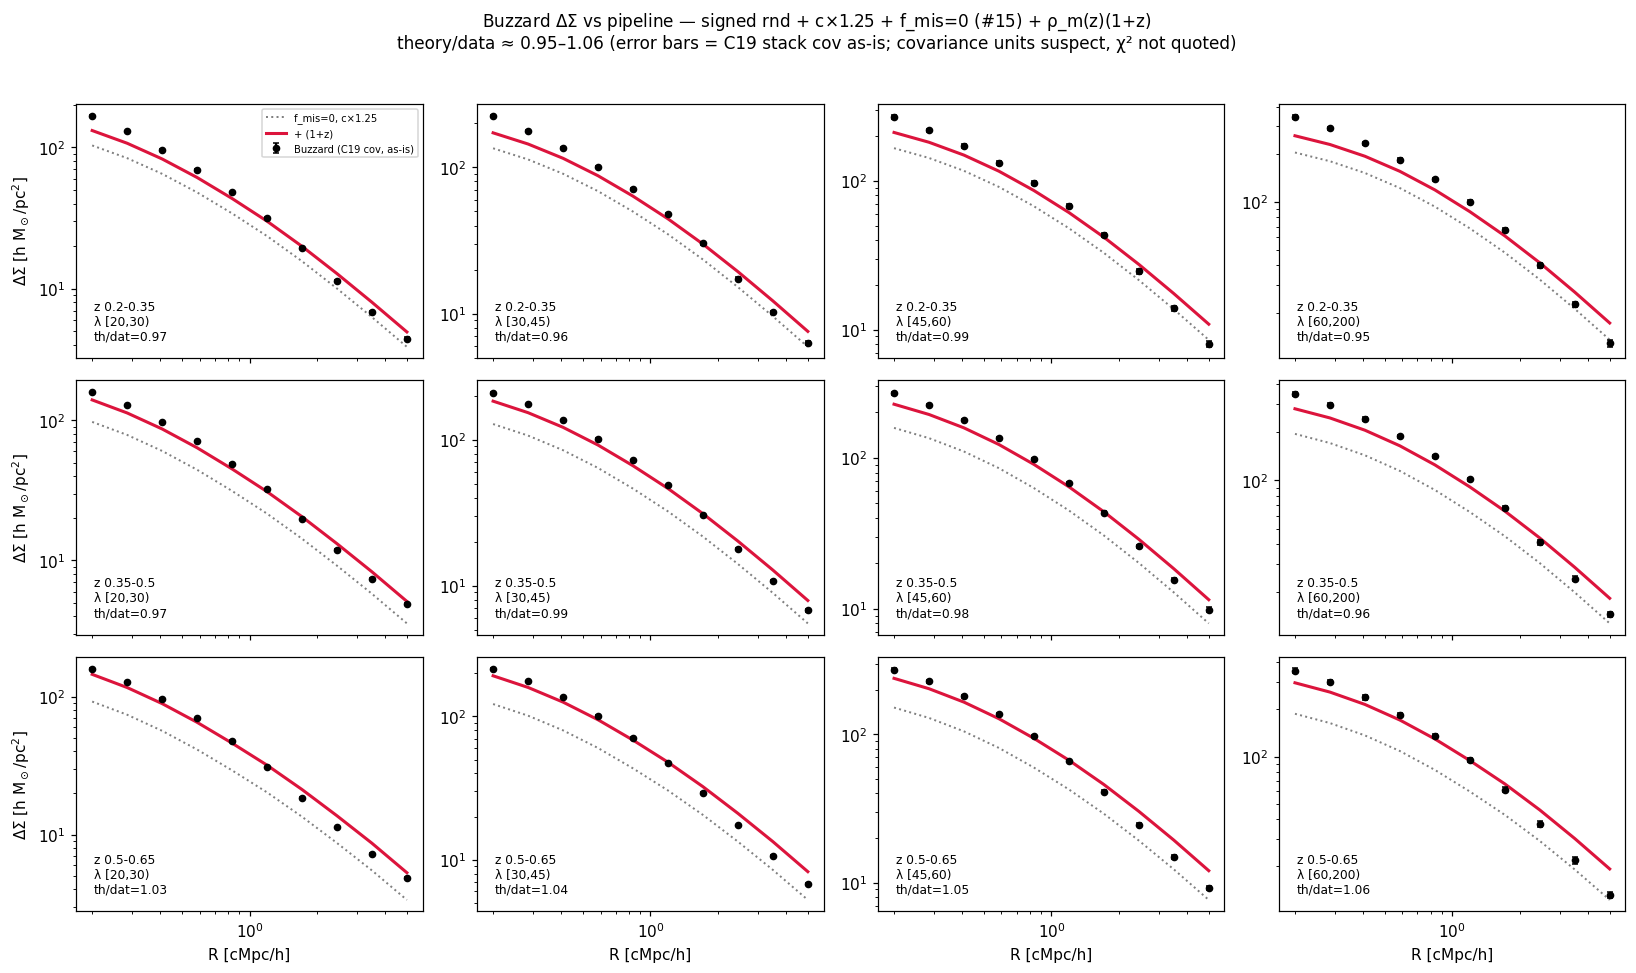
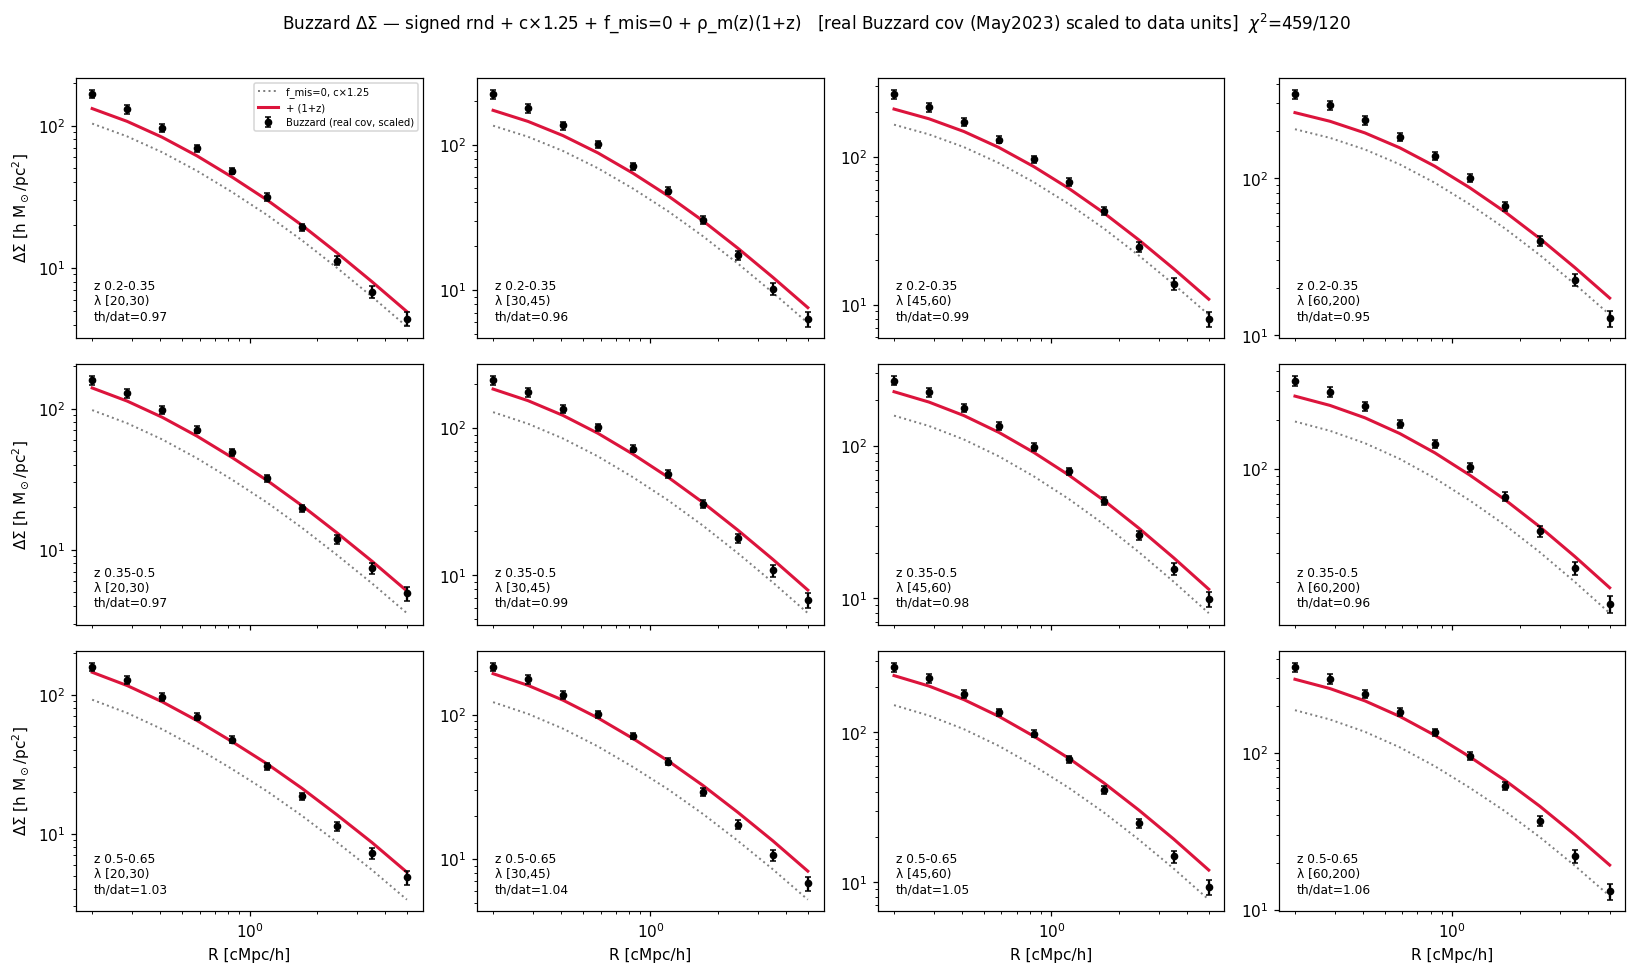
Real Buzzard cov (May2023) scaled to data units; honest chi2=3.8/dof

diff --git a/validations/build_buzzard_realcov_scaled.py b/validations/build_buzzard_realcov_scaled.py
@@ -1,0 +1,40 @@
+"""Scale the current Buzzard shear DV covariance to the REAL Buzzard-halo
+covariance's fractional errors, at the current data's actual (little-h) units.
+
+The gt_obs_c1 DV's C19 analytical stack covariance is unphysically tight (~2%).
+The real Buzzard-halo covariance (dataVec_mock_May10th2023.npz, made from Buzzard
+halos; used by the old y1_mock inis) has fractional errors ~6% at small/mid R
+growing to ~10-16% at large R. We take THAT covariance's fractional error per
+radius (mean over the 12 bins), interpolate onto the current 10-radius grid, and
+multiply by the CURRENT data amplitude -> a realistic diagonal covariance in the
+correct units. No data is invented; the fractional errors are the measured
+Buzzard ones, the amplitude is the current data's.
+"""
+import numpy as np
+
+OLD = "/global/cfs/cdirs/des/jesteves/data/buzzard/v1.9.8/y3_rm/dataVec_mock_May10th2023.npz"
+CUR = "/pscratch/sd/j/jesteves/github/des-cluster-nersc/data/mock/dv_buzzard_gt_obs_c1_comoving.npz"
+OUT = "/pscratch/sd/j/jesteves/github/des-cluster-nersc/data/mock/dv_buzzard_gt_obs_c1_realcov.npz"
+
+# old Buzzard covariance -> fractional error per radius (20-radius grid)
+old = np.load(OLD)
+sig_old = np.sqrt(np.diag(np.linalg.inv(old["invcov_Shear"])))
+r_old = np.array([0.30, 0.35, 0.40, 0.47, 0.54, 0.63, 0.73, 0.85, 0.98, 1.14,
+                  1.32, 1.53, 1.77, 2.06, 2.38, 2.77, 3.21, 3.72, 4.31, 5.00])
+frac_old = np.mean(np.abs(sig_old / old["data_Shear"]).reshape(12, 20), axis=0)
+
+# current DV (10-radius grid), keep data + units; replace covariance
+cur = np.load(CUR)
+data = cur["data_Shear"]
+R = cur["radii"]
+frac = np.interp(np.log(R), np.log(r_old), frac_old)   # flat-extrapolate below 0.3
+sig = np.tile(frac, 12) * np.abs(data)                 # real frac err x actual amplitude
+invcov = 1.0 / sig ** 2
+
+np.savez(OUT, data_NC=cur["data_NC"], invcov_NC=cur["invcov_NC"],
+         data_Shear=data, invcov_Shear=invcov, radii=R,
+         units=str(cur["units"]) if "units" in cur.files else "",
+         cov_note=np.str_("frac err from dataVec_mock_May10th2023 (Buzzard halos) "
+                          "interpolated to 10-radius grid x current data amplitude"))
+print(f"wrote {OUT}")
+print(f"  frac err (10-radius) [%]: {np.round(frac * 100, 1)}")
